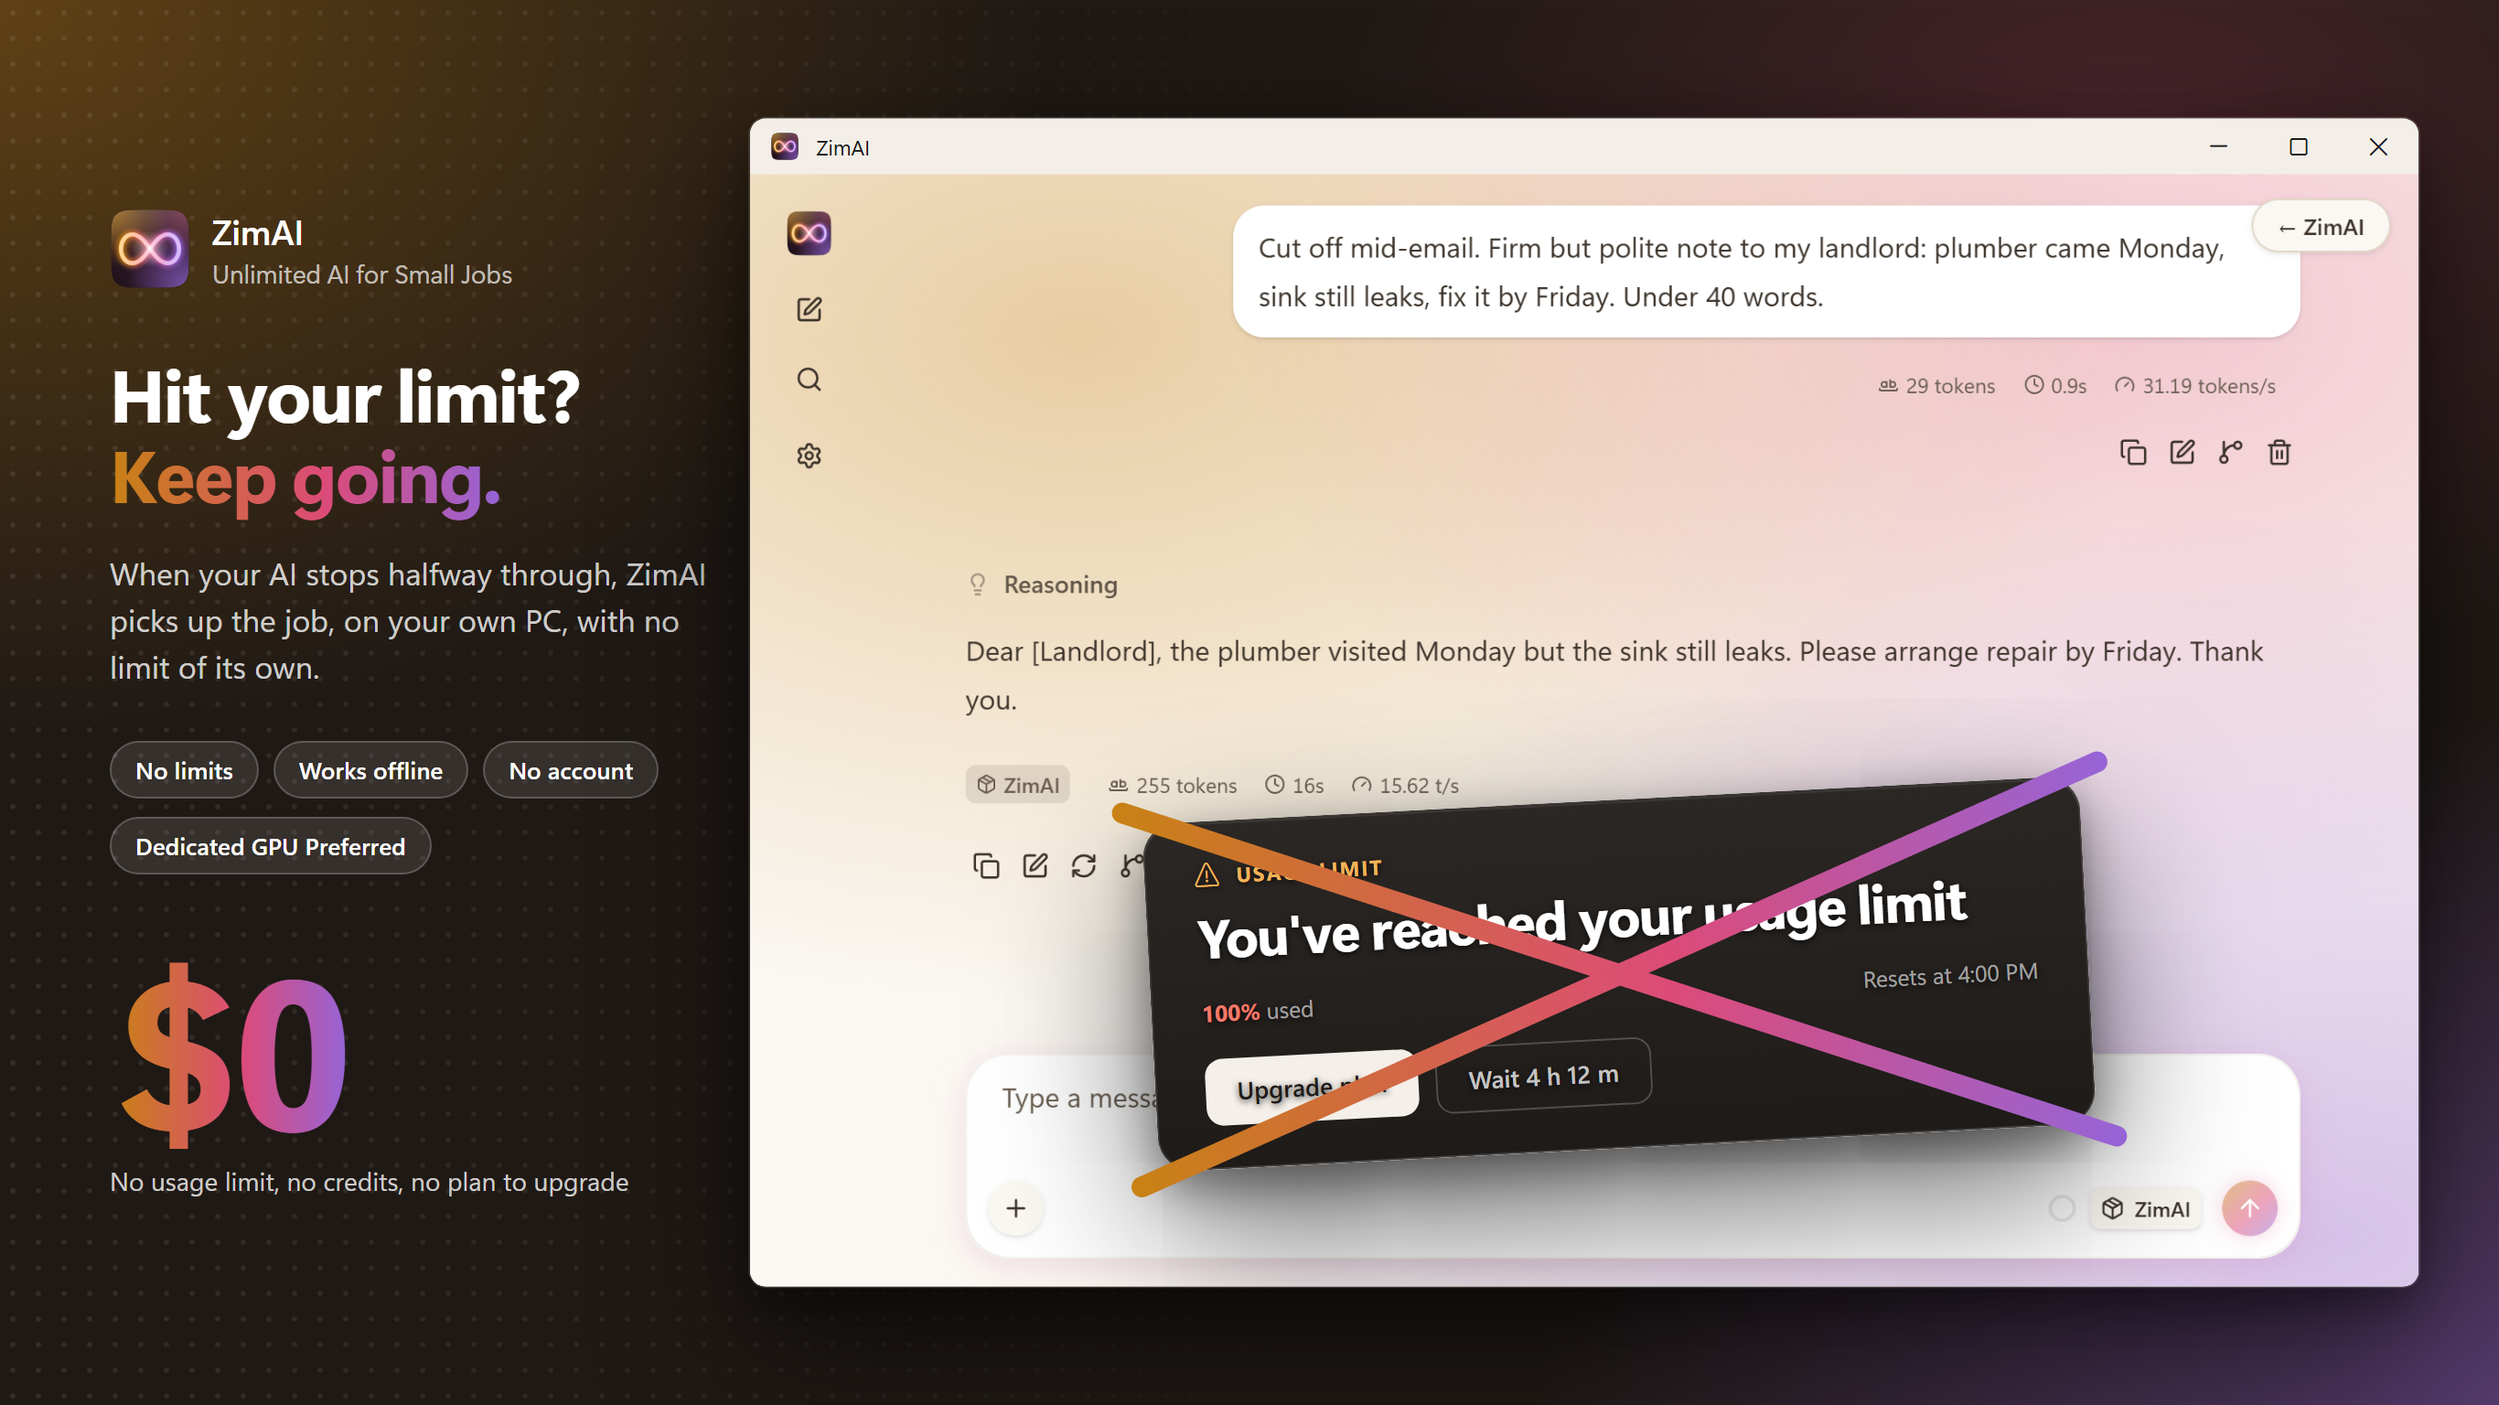
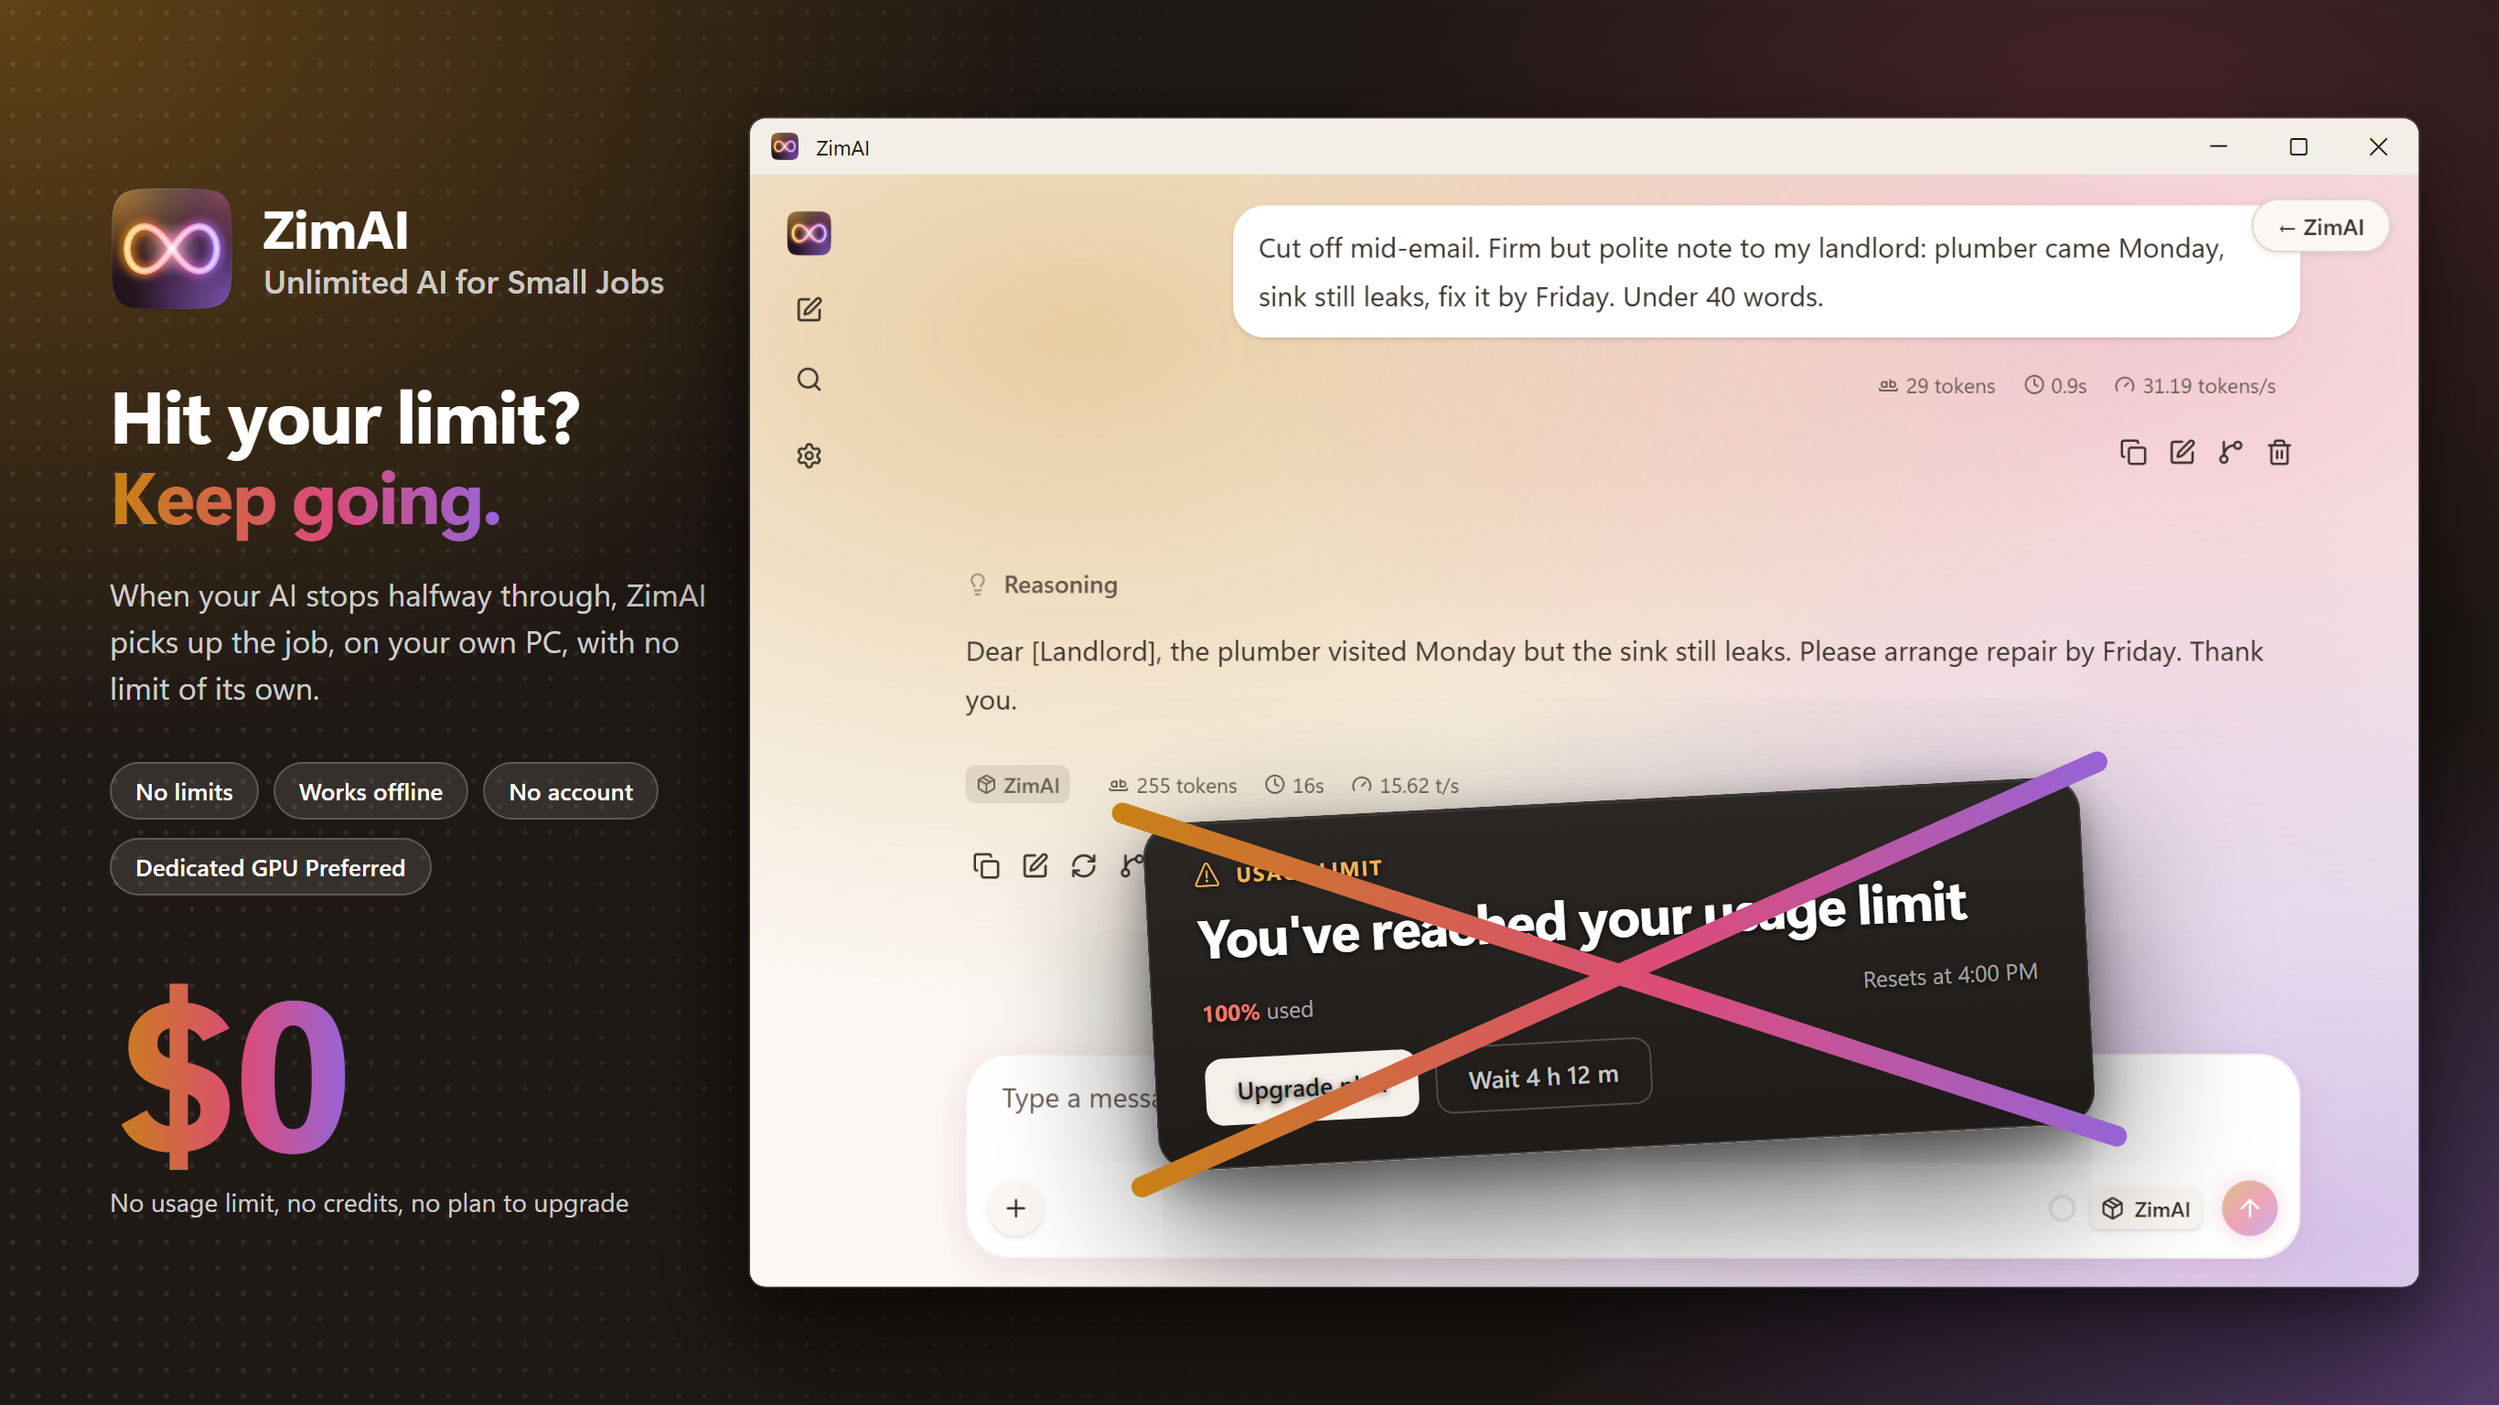
Store listing, trimmed; the screenshots' brand block bigger
The description is a short pitch and five bullets: the usage limit and the fix
first, then the requirements and the trademark line. The features are six short
lines, the runFullTrust reason and the certification notes a third shorter, and
the notes now say to click Start, since the server no longer starts by itself.
The Properties section follows the console as filled in: Productivity, with
Developer tools as the subcategory, and the requirements table as entered.

In the screenshots, the icon, name and slogan above each line are half again as
big.

diff --git a/store-listing/generator/shots.html b/store-listing/generator/shots.html
@@ -14,9 +14,9 @@
   body::before { mask-image: linear-gradient(90deg, #000 0%, rgba(0, 0, 0, 0.6) 30%, transparent 55%); }
 
   .caption { position: absolute; left: 60px; top: 0; bottom: 0; width: 330px; display: flex; flex-direction: column; justify-content: center; }
-  .caption .app { display: flex; align-items: center; gap: 12px; margin-bottom: 34px; font-size: 19px; font-weight: 600; }
-  .caption .app img { width: 44px; height: 44px; }
-  .caption .app small { display: block; margin-top: 1px; font-size: 14px; font-weight: 400; color: rgba(255, 255, 255, 0.7); }
+  .caption .app { display: flex; align-items: center; gap: 16px; margin-bottom: 34px; font-size: 29px; font-weight: 700; line-height: 1.1; }
+  .caption .app img { width: 68px; height: 68px; }
+  .caption .app small { display: block; margin-top: 3px; font-size: 18px; font-weight: 500; color: rgba(255, 255, 255, 0.75); }
   h1 { margin: 0; font-size: 40px; line-height: 1.1; font-weight: 700; letter-spacing: -0.02em; }
   .caption p { margin: 20px 0 0; font: 400 17px/1.5 "Segoe UI Variable Text", "Segoe UI", sans-serif; color: rgba(255, 255, 255, 0.78); }
   /* One row, though it may run a few pixels past the column. */

diff --git a/store-listing/LISTING.md b/store-listing/LISTING.md
@@ -2,35 +2,23 @@
 
 Everything to paste into Partner Center → ZimAI, in the submission's order: Properties, Store listings (English
 (United States)), Submission options. Pricing and availability, Age ratings and Packages are filled in Partner Center
-by hand. Images are beside this file (the screenshots in [desktop/](desktop/)), rendered by
-`powershell -ExecutionPolicy Bypass -File store-listing\generator\render.ps1`.
+by hand. 
 
 ## Properties
 
-- **Category:** Productivity. **Subcategory:** none. (Developer tools until 2026-10-29: developers are now one of two
-  audiences, [POSITIONING.md](../docs/POSITIONING.md).)
+- **Category:** Productivity. 
+- **Subcategory:** Developer tools.
 - **Privacy policy:** paste [PRIVACY.md](PRIVACY.md) as it is; it's plain text, written for Partner Center's box.
 - **Website:** `https://github.com/chengmarc/ZimAI`
 - **Support contact info:** `https://github.com/chengmarc/ZimAI/issues`
-- **System requirements:** what the Store shows under the listing, and a warning on a PC that doesn't meet the
-  minimum. It doesn't stop the install; ZimAI's own check does that (`Requirements` in `src/app/Requirements.cs`, which these
-  follow). Leave every other row unchecked: no touch, camera, microphone, Bluetooth or the like.
-
+- **System requirements:** 
   | | Minimum hardware | Recommended hardware |
   |---|---|---|
-  | Keyboard | ✓ (the terminal is typed into) | |
-  | Memory | 16 GB | 16 GB |
+  | Mouse | ✓ | ✓ |
+  | Keyboard | ✓ | ✓ |
+  | Memory | 16 GB | 32 GB |
   | Video memory | leave unchecked: ZimAI runs on the CPU without a GPU | the largest option offered (8 GB or more) |
-  | Processor | `64-bit (x64)` | |
-  | Graphics | leave empty | `NVIDIA RTX, 8 GB VRAM or more` |
-  | DirectX | leave empty: ZimAI uses CUDA, not DirectX | |
-
-  Minimum memory is 16 GB, though 8 GB is enough with a 12 GB GPU: the Store has one value per row, and most PCs
-  with 8 GB of RAM can't run ZimAI. The text in Additional system requirements (below) says so. There's no minimum GPU:
-  without one, ZimAI runs on the CPU, much slower.
-
-- **Product declarations:** none apply. Leave "This product has been tested to meet accessibility guidelines"
-  unchecked unless it has been.
+  | Graphics | leave empty | `NVIDIA RTX` |
 
 ## Store listings — English (United States)
 
@@ -39,49 +27,15 @@ by hand. Images are beside this file (the screenshots in [desktop/](desktop/)), 
 ```
 Unlimited AI for Small Jobs. Out of credits? Not here.
 
-You're halfway through something and your AI stops: "You've reached your usage limit. Resets at 4:00 PM." You can wait hours, pay for the next plan up, or do it by hand, which you stopped doing a while ago.
+Hit your AI's usage limit halfway through something? Don't wait hours for the reset or pay for a bigger plan. ZimAI is a free AI that runs on your own PC, so it never runs out: pick up the job where you were cut off and finish it.
 
-ZimAI is the fourth option: keep going. It's a free AI that runs on your own PC, so there's no usage limit, no reset clock and no plan to upgrade. Keep your subscription for the big work, and hand ZimAI the small stuff, as often as you like.
+• No usage limit, no credits, no account: use it as often as you like
+• Emails, rewrites, formulas and quick questions, in the app's own chat window
+• For developers, a terminal that works in your projects and asks before every change
+• Private: nothing you type leaves your PC, and it works offline
+• Runs on the NVIDIA GeForce you game on, or on the CPU, and checks your PC before downloading
 
-Hand it the small jobs
-• Reply to this email, reword this paragraph, summarize this, explain this: in the app's own Chat window.
-• For developers, a terminal that works in your projects: the commit message after a big rework, "where is this function used?", rename these files, what does this error mean.
-• Ask about your PC, too: "my C: drive is 97% full, what's eating the space?" gets you the biggest folders, first to last.
-
-No meter running
-• No usage limit, no credits, no daily cap: use it a hundred times a day.
-• No account, no API key, no subscription, no ads and no telemetry.
-• It sits beside the AI you already use; it doesn't ask you to switch.
-
-Private by default
-• It runs on your PC: nothing you ask, type or open is sent to an AI service.
-• Your chats are saved on your PC and nowhere else.
-• Once the model is downloaded, it works offline. Only web searches, and pages and commands you approve, go online.
-
-You approve every change
-• In the terminal, anything that changes a file, runs a command or opens a web page waits for your yes.
-• You see each edit as a diff before it's made, and after a no you can tell it why.
-
-On the PC you already have
-• It runs on the NVIDIA GeForce you game on, from a GTX 1060 6 GB to an RTX 5090.
-• No NVIDIA GPU? It runs on the CPU with 16 GB of RAM, much slower, but it works.
-• Before anything downloads, the app checks your PC and tells you plainly whether it can run ZimAI.
-• Nothing to set up: the model is fitted to your GPU and RAM automatically. It's one 12 GB download, and it resumes if interrupted, even after a restart.
-
-Know the limits
-ZimAI is built on gpt-oss-20b, an open-weight model: 20 billion parameters, about 3.6 billion active per token. It's made for small jobs, not to replace the AI you pay for: give it quick, clear tasks, and keep the big, open-ended ones for the cloud.
-
-Requirements
-• Windows 10 or 11, 64-bit
-• 16 GB of RAM (8 GB with a 12 GB GPU)
-• 13 GB of free disk space for the model
-• For speed, an NVIDIA GPU with 6 GB of video memory or more: a GTX 1060 6 GB, a GTX 1660, or any desktop RTX. 8 GB or more is better; with 16 GB the whole model fits on the GPU. It needs a driver with CUDA 12.4 or later.
-
-Without an NVIDIA GPU, including on AMD and Intel graphics, ZimAI runs on the CPU, much slower.
-
-ZimAI is open source under the Apache 2.0 license.
-
-NVIDIA, GeForce, GTX and RTX are trademarks of NVIDIA Corporation. ZimAI is an independent project, not affiliated with or endorsed by NVIDIA, OpenAI or Hugging Face.
+Made for small jobs: it's a 20B open-weight model, not a replacement for the AI you pay for.
 ```
 
 ### What's new in this version
@@ -94,18 +48,12 @@ so 1.0.1 is still the first version customers see.
 One per line in Partner Center ("Add more" for each); each finishes "With this app, you can …":
 
 ```
-Keep going when your AI hits its usage limit: ZimAI has none
-Hand off small jobs as often as you like: emails, rewrites, summaries, quick questions
-Skip the hours-long wait for a reset, and the upgrade to a bigger plan
-Have it draft a commit message, find where code is used or rename files in your projects
-Keep everything on your PC: nothing you ask or open is sent to an AI service
-Approve every edit, command and web page first, with each edit shown as a diff
-Use the GeForce you game on, from a GTX 1060 6 GB to an RTX 5090, or just the CPU
-Find out whether your PC can run it before anything downloads
-Skip the setup: the model is fitted to your GPU and RAM automatically
-Work offline once the model is downloaded
-Use it with no account, no API key and no subscription
-Read and change every line: it's open source under Apache 2.0
+Keep going when your AI hits its usage limit
+Use it as often as you like: no limits, no credits, no account
+Write emails, formulas and rewrites in its chat window
+Work in your projects from a terminal, approving every change
+Keep everything private and offline, on your own PC
+Run it on your GeForce, or just the CPU
 ```
 
 ### Screenshots
@@ -155,30 +103,14 @@ Leave empty: ZimAI has no trailer, and isn't an Xbox app.
   AI coding assistant
   ```
 
-- **Additional system requirements** (each line one item, 200 characters each):
-
-  Minimum hardware:
-
-  ```
-  16 GB of RAM, or 8 GB with a 12 GB GPU
-  13 GB of free disk space for the model, downloaded on first run
-  Without an NVIDIA GPU (AMD and Intel graphics included), it runs on the CPU, much slower
-  ```
-
-  Recommended hardware:
-
-  ```
-  NVIDIA RTX GPU with 8 GB of video memory or more, and a driver with CUDA 12.4 or later
-  With 16 GB of video memory, the whole model runs on the GPU
-  ```
-
 - **Copyright and trademark info:**
 
   ```
-  © 2026 chengmarc. NVIDIA, GeForce, GTX and RTX are trademarks of NVIDIA Corporation.
+  © 2026 chengmarc.
   ```
 
 - **Additional license terms:** `Apache License 2.0: https://github.com/chengmarc/ZimAI/blob/main/LICENSE`
+
 - **Developed by:** `chengmarc`
 
 ## Submission options
@@ -188,11 +120,11 @@ Leave empty: ZimAI has no trailer, and isn't an Xbox app.
 - **Restricted capabilities → runFullTrust:**
 
   ```
-  ZimAI is a desktop app built with C# (Windows Forms and WebView2), packaged with the Desktop Bridge. runFullTrust is required for any packaged Win32 desktop app to launch its executable (EntryPoint="Windows.FullTrustApplication"). It is used only to run the app itself: ZimAI.exe, and the llama.cpp model server, Node.js and Git Bash it ships with. It reads and writes files only in the folders the user works in, asking before every change, and it has no telemetry. The terminal (Git Bash) is started outside the package with the documented desktop app breakaway policy (PROC_THREAD_ATTRIBUTE_DESKTOP_APP_POLICY), so the commands the user approves there behave as in any terminal; the app requests no other restricted capability.
+  ZimAI is a packaged Win32 desktop app (C#, Windows Forms and WebView2); runFullTrust is required to launch it. It runs only its own executables: ZimAI.exe and the llama.cpp model server, Node.js and Git Bash it ships with. It asks before every file change or command, and has no telemetry. Its terminal starts outside the package through the documented desktop app breakaway policy. It requests no other restricted capability.
   ```
 
 - **Notes for certification:**
 
   ```
-  No account or sign-in is needed, and there's nothing to configure: ZimAI picks the model (gpt-oss-20b) and its settings itself. It runs on an NVIDIA GPU (6 GB of video memory or more, CUDA 12.4 or later) or, without one, on the CPU with 16 GB of RAM, much slower; the System row says GPU Available or CPU Only. 1. Click Download in the Model row (12 GB from Hugging Face; if it's interrupted, click Resume). 2. Wait until the Server row says Ready (about 30 seconds on a GPU, longer on the CPU). 3. Click Terminal and type "list the files in this folder"; it asks before running the command (answer y) and then lists them. Or click Chat and ask a question in the window. On a PC with less than 16 GB of RAM and no GPU ZimAI can use, the System row says "Not Supported" with the reason, and nothing is downloaded. Since the last submission: the unvirtualizedResources capability, which was denied, has been removed, and the package declares only runFullTrust.
+  No sign-in or setup needed. 1. Click Download in the Model row (the 12 GB model). 2. Click Start in the Server row and wait for Server Ready (about 30 seconds on a GPU). 3. Click Chat and ask a question, or click Terminal and type "list the files in this folder", answering y when it asks. It runs on an NVIDIA GPU with 6 GB of video memory or more, or on the CPU with 16 GB of RAM; on a PC with neither, the System row says Not Supported and nothing is downloaded. Since the last submission, the denied unvirtualizedResources capability has been removed.
   ```
